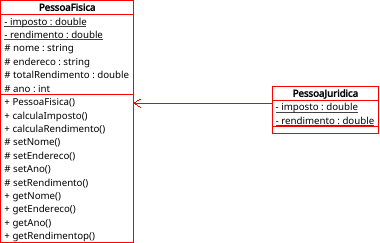
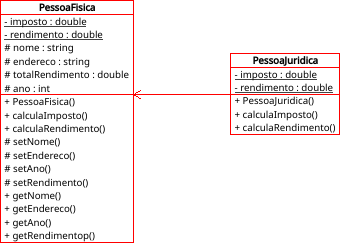
diagrama atualizado e comentarios adicionados ao arquivo ex2.cpp

diff --git a/Lista3/ex2.cpp b/Lista3/ex2.cpp
@@ -128,6 +128,8 @@ PessoaJuridica::PessoaJuridica(string nome, string endereco, double totalRendime
 {
 }
 
+// Redefinição desses dois métodos para fazer com que use as variaveis PessoaJuridica::imposto e PessoaJuridica::rendimento, ao invés de utilizar os 
+// equivalente da classe PessoaFisica
 double PessoaJuridica::calculaImposto() {
 	return this->getRendimento() * this->imposto;
 }
@@ -152,7 +154,7 @@ int main() {
 	int n;
 
 	PessoaFisica pf("Pessoa Fisica", "Av. Sete de Setembro 3165", 5050.50, 1999);
-	PessoaJuridica pj("Pessoa Juridica", "Av. Sete de Setembro 3165", 5050.50, 2005);
+	PessoaJuridica pj("Pessoa Juridica", "Av. Sete de Setembro 3165", 5050.50, 1999);
 
 
 	cout << "Classe PessoaFisica\n\n" << "Nome: " << pf.getNome() << endl << "Endereço: " << pf.getEndereco() << endl;
